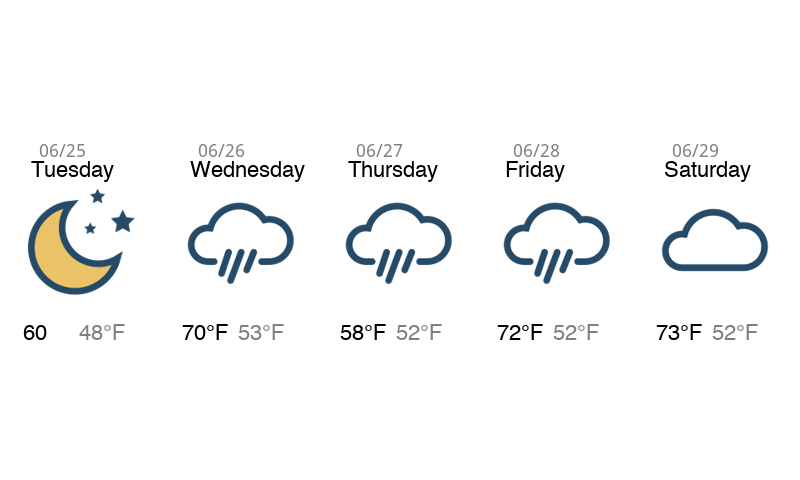
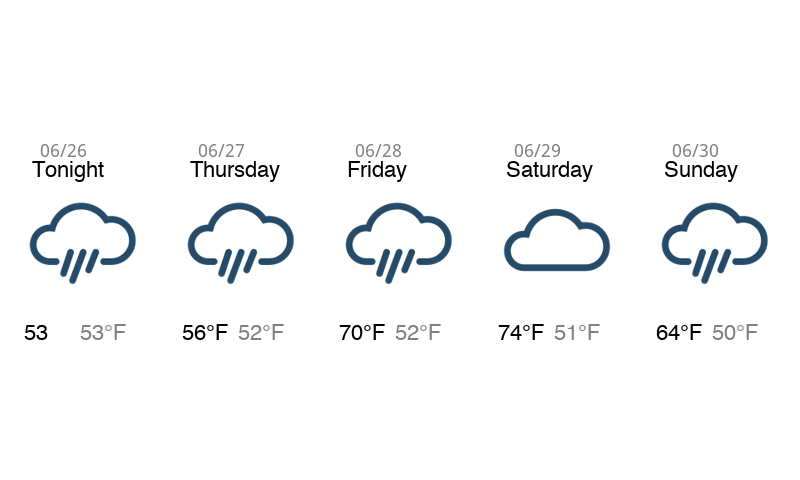
correctly handle time change after midnight

diff --git a/assets/tools/forecast_builder/WeatherData.py b/assets/tools/forecast_builder/WeatherData.py
@@ -1,10 +1,10 @@
 import os
-from datetime import datetime
+from datetime import datetime, timedelta
 import requests
 import json
 from PIL import Image, ImageDraw, ImageFont
 
-DEBUG = False
+DEBUG = True
 
 CWD = os.getcwd()
 ICON_DIR = CWD + "/assets/images/weather_icons/"
@@ -15,7 +15,7 @@ CENTER_WIDTH = WIDTH / 2
 CENTER_HEIGHT = HEIGHT / 2
 CENTER = (CENTER_WIDTH, CENTER_HEIGHT)
 SPACING = 8
-TODAY = datetime.today()
+TODAY = datetime.now()
 HOUR = int(TODAY.strftime("%H"))
 FONT_SIZE_HEADER = 18
 FONT_SIZE_SUB = 22
@@ -94,8 +94,18 @@ class WeatherData:
             min_temp = str(day["temp"]["min"]) + "\u2109"
             max_temp = str(day["temp"]["max"]) + "\u2109"
             week_day = day["weekday"]
+            sunset = day["sunset"]
+            sunrise = day["sunrise"]
+            if sunset >= sunrise:
+                sunrise += timedelta(days=1)
+            is_night = sunset <= TODAY or TODAY < sunrise
+            if DEBUG:
+                print("is_night", is_night)
+                print("sunrise", sunrise)
+                print("sunset: ", sunset)
+                print("now: ", TODAY)
             if i == 0:
-                if TODAY > day["sunset"] and TODAY < day["sunrise"]:
+                if is_night:
                     self.nightmode = True
                     week_day = "Tonight"
                     max_temp = str(day["temp"]["night"])
@@ -104,7 +114,6 @@ class WeatherData:
                     self.nightmode = False
             self.icons = self.get_icons(ICON_DIR, self.bg, self.nightmode)
             condition = self.icons[day["weather"][0]["description"]]
-            print(condition)
             icon_image = Image.open(condition).convert("RGBA")
             w, h = icon_image.size
             text_w = self.text_size(day_name)[0]
